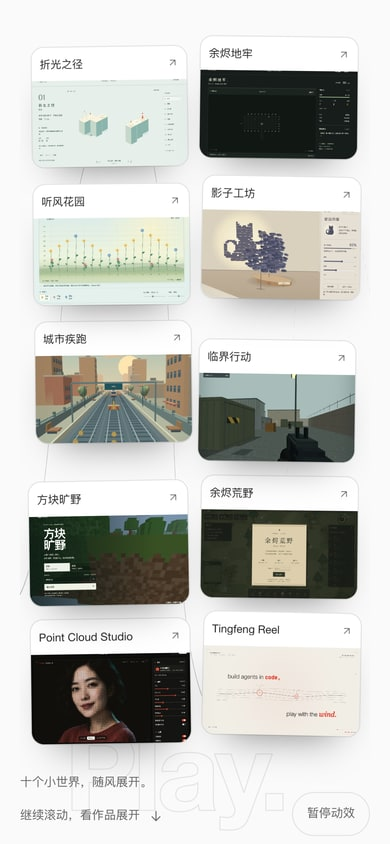
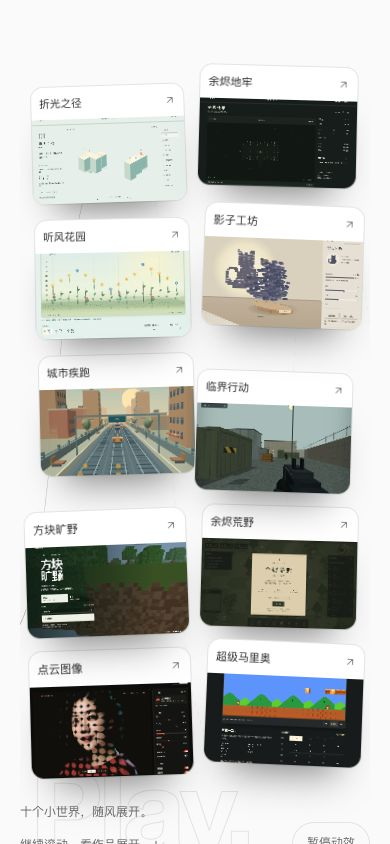
docs: refresh launcher screenshots and rename point cloud work

diff --git a/index.html b/index.html
@@ -99,10 +99,10 @@
                 <img src="assets/screenshots/ember-wilds.png" alt="余烬荒野的真实界面缩略图" width="1280" height="720" decoding="async">
               </div>
             </a>
-            <a class="art-layer" href="works/point-cloud-studio/demo/index.html" target="_blank" rel="noopener" aria-label="打开 Point Cloud Studio" style="--dx:16px;--dy:16px;--depth:95px;--turn:-6deg;--tilt:-14deg;--wave:38px">
+            <a class="art-layer" href="works/point-cloud-studio/demo/index.html" target="_blank" rel="noopener" aria-label="打开 点云图像" style="--dx:16px;--dy:16px;--depth:95px;--turn:-6deg;--tilt:-14deg;--wave:38px">
               <div class="art-frame">
-                <div class="art-frame-bar"><span>Point Cloud Studio</span><svg viewBox="0 0 24 24" aria-hidden="true"><path d="M7 17 17 7M7 7h10v10"/></svg></div>
-                <img src="assets/screenshots/point-cloud-studio.png" alt="Point Cloud Studio的真实界面缩略图" width="1280" height="720" decoding="async">
+                <div class="art-frame-bar"><span>点云图像</span><svg viewBox="0 0 24 24" aria-hidden="true"><path d="M7 17 17 7M7 7h10v10"/></svg></div>
+                <img src="assets/screenshots/point-cloud-studio.png" alt="点云图像的真实界面缩略图" width="1280" height="720" decoding="async">
               </div>
             </a>
             <a class="art-layer" href="works/mario-world/demo/index.html" target="_blank" rel="noopener" aria-label="打开 超级马里奥" style="--dx:30px;--dy:7px;--depth:-110px;--turn:8deg;--tilt:15deg;--wave:26px">
@@ -274,7 +274,7 @@
           <figure class="work-preview">
             <div class="preview-bar" aria-hidden="true">
               <span class="window-dots"><i></i><i></i><i></i></span>
-              <span>Point Cloud Studio</span>
+              <span>点云图像</span>
               <svg viewBox="0 0 24 24"><path d="M8 16 16 8M8 8h8v8"/></svg>
             </div>
             <div class="preview-image">
@@ -284,7 +284,7 @@
           </figure>
           <div class="work-content">
             <div class="work-title-row">
-              <h3 id="point-cloud-title">Point Cloud Studio</h3>
+              <h3 id="point-cloud-title">点云图像</h3>
               <span class="work-category">影像实验</span>
             </div>
             <p id="point-cloud-note">把照片变成彩色点阵，或可以旋转、缩放与扰动的三维点云。</p>

diff --git a/docs/PREVIEWS.md b/docs/PREVIEWS.md
@@ -14,7 +14,7 @@
 | [临界行动 · Strike Arena](../works/strike-arena/) | 3D 第一人称枪战 | [直接打开成品](https://tingfeng347.github.io/windplay/works/strike-arena/demo/index.html) | 原创工业园战场，包含步枪/手枪、瞄准换弹、手雷、战术敌人、击杀目标与结算 |
 | [方块旷野 · Voxel Frontier](../works/voxel-frontier/) | 第一人称方块沙盒 | [直接打开成品](https://tingfeng347.github.io/windplay/works/voxel-frontier/demo/index.html) | 我的世界玩法启发的原创方块世界，支持采集、建造、制作、创造/生存模式与本地存档 |
 | [余烬荒野 · Ember Wilds](../works/ember-wilds/) | 手绘荒野生存 | [直接打开成品](https://tingfeng347.github.io/windplay/works/ember-wilds/demo/index.html) | 饥荒玩法启发的原创生存游戏，包含采集、制作、营火、烹饪、昼夜、敌人与生命/饥饿/精神状态 |
-| [Point Cloud Studio](../works/point-cloud-studio/) | 点云人像 / 交互工具 | [直接打开成品](https://tingfeng347.github.io/windplay/works/point-cloud-studio/demo/index.html) | 将照片转换为彩色点阵 SVG 和可交互三维点云 |
+| [点云图像](../works/point-cloud-studio/) | 点云人像 / 交互工具 | [直接打开成品](https://tingfeng347.github.io/windplay/works/point-cloud-studio/demo/index.html) | 将照片转换为彩色点阵 SVG 和可交互三维点云 |
 | [超级马里奥 · 像素冒险](../works/mario-world/) | 像素平台冒险 | [直接打开成品](../works/mario-world/demo/index.html) | FC 初代玩法重制：8 个世界 32 关，跳跃、踩怪、蘑菇、火球、水下与城堡，支持触屏与进度保存 |
 
 ## 截图
@@ -51,9 +51,9 @@
 
 [![余烬荒野：手绘荒野生存，包含营火、昼夜与战斗](../assets/screenshots/ember-wilds.png)](../works/ember-wilds/demo/index.html)
 
-### [Point Cloud Studio](../works/point-cloud-studio/)
+### [点云图像](../works/point-cloud-studio/)
 
-[![Point Cloud Studio：把照片转成彩色点阵与三维点云](../assets/screenshots/point-cloud-studio.png)](../works/point-cloud-studio/demo/index.html)
+[![点云图像：把照片转成彩色点阵与三维点云](../assets/screenshots/point-cloud-studio.png)](../works/point-cloud-studio/demo/index.html)
 
 ### [超级马里奥 · 像素冒险](../works/mario-world/)
 

diff --git a/README.md b/README.md
@@ -22,7 +22,7 @@
 | [临界行动 · Strike Arena](works/strike-arena/) | 3D 第一人称枪战 | [打开](https://tingfeng347.github.io/windplay/works/strike-arena/demo/index.html) |
 | [方块旷野 · Voxel Frontier](works/voxel-frontier/) | 方块沙盒 | [打开](https://tingfeng347.github.io/windplay/works/voxel-frontier/demo/index.html) |
 | [余烬荒野 · Ember Wilds](works/ember-wilds/) | 荒野生存 | [打开](https://tingfeng347.github.io/windplay/works/ember-wilds/demo/index.html) |
-| [Point Cloud Studio](works/point-cloud-studio/) | 点云人像工具 | [打开](https://tingfeng347.github.io/windplay/works/point-cloud-studio/demo/index.html) |
+| [点云图像](works/point-cloud-studio/) | 点云人像工具 | [打开](https://tingfeng347.github.io/windplay/works/point-cloud-studio/demo/index.html) |
 | [超级马里奥 · 像素冒险](works/mario-world/) | 32 关像素平台冒险 | [打开](https://tingfeng347.github.io/windplay/works/mario-world/demo/index.html) |
 
 ## 开发

diff --git a/docs/GAME_COVERS.md b/docs/GAME_COVERS.md
@@ -34,8 +34,8 @@
 | 临界行动 | `assets/screenshots/strike-arena.jpg` |
 | 方块旷野 | `assets/screenshots/voxel-frontier.png` |
 | 余烬荒野 | `assets/screenshots/ember-wilds.png` |
-| Point Cloud Studio | `assets/screenshots/point-cloud-studio.png` |
-| Tingfeng Reel | `assets/screenshots/tingfeng-reel.png` |
+| 点云图像 | `assets/screenshots/point-cloud-studio.png` |
+| 超级马里奥 | `assets/screenshots/mario-world.png` |
 
 启动台截图保存在 `assets/screenshots/launcher.jpg`，手机端保存在 `assets/screenshots/launcher-mobile.jpg`。
 首页布局变化时同步刷新这两张图片；作品界面变化时刷新对应截图，并确认 README 的图片链接与作品入口一致。

diff --git a/docs/DEVELOPMENT.md b/docs/DEVELOPMENT.md
@@ -27,7 +27,7 @@ npm run dev --workspace @windplay/point-cloud-studio
 | 临界行动 | `npm run dev:shooter` |
 | 方块旷野 | `npm run dev:voxel` |
 | 余烬荒野 | `npm run dev:survival` |
-| Point Cloud Studio | `npm run dev:point-cloud` |
+| 点云图像 | `npm run dev:point-cloud` |
 | 超级马里奥 | `npm run dev:mario` |
 | Tingfeng Reel（已隐藏） | `npm run dev:reel` |
 

diff --git a/works/point-cloud-studio/README.md b/works/point-cloud-studio/README.md
@@ -1,4 +1,4 @@
-# Point Cloud Studio
+# 点云图像
 
 > WindPlay 作品：`works/point-cloud-studio`
 
